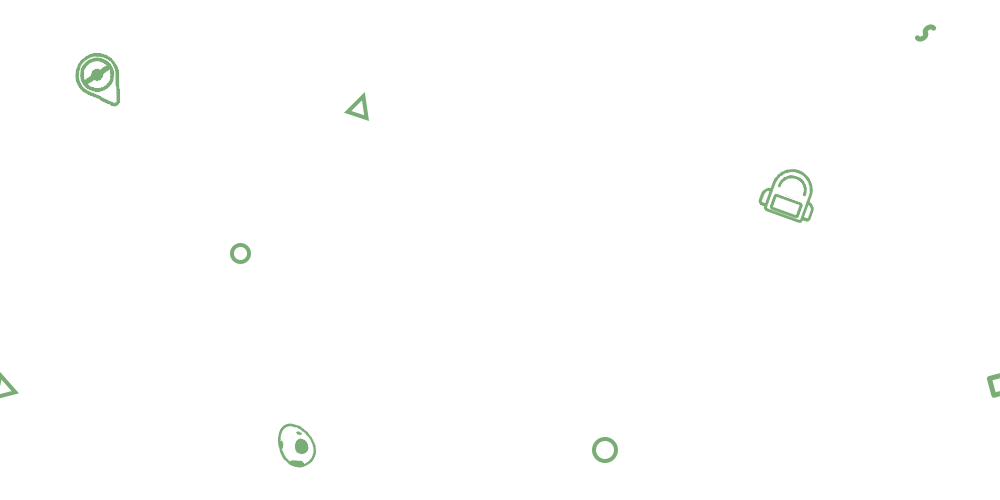
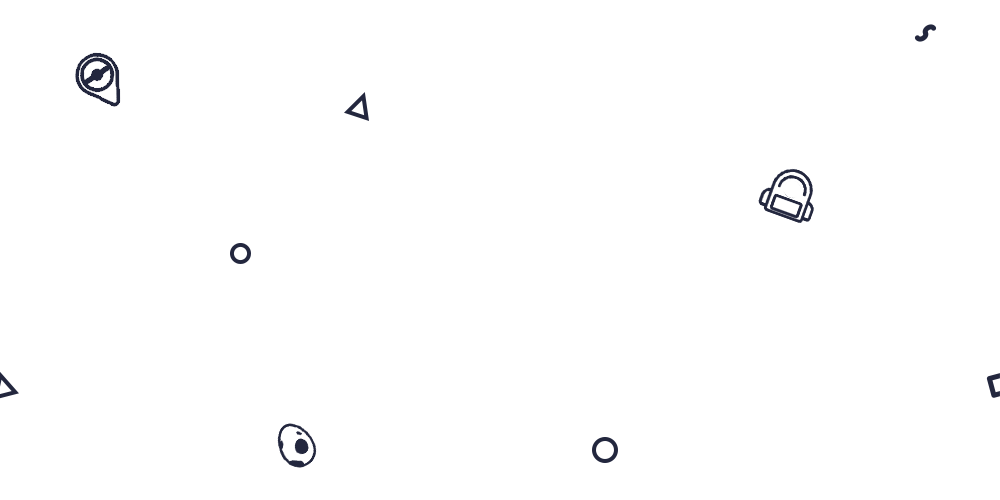
Updated colors.

diff --git a/list/styles.css b/list/styles.css
@@ -4,7 +4,7 @@
 
 a {
 	text-decoration: none;
-	color: #DEECD8;
+	color: #fff;
 }
 /* Header COPY*/
 
@@ -13,7 +13,7 @@ a {
 	top: 0;
 	left: 0;
 	right: 0; 
-	background-color: #79AD75;
+	background-color: #23273E;
 	padding: 10px 10px 10px 10px;
 	display: flex;
 	justify-content: space-between;
@@ -24,7 +24,7 @@ a {
 }
 .header-left, .header-right {
 	margin: 0px 0px 0px 0px;
-	color: #DEECD8;
+	color: #fff;
 }
 /* Body COPY */
 
@@ -97,7 +97,7 @@ button {
 	position: relative;
 	min-width: 368px;
 	min-height: 208px;
-	border: 2px solid #DEECD8;
+	border: 2px solid #fff;
 	border-radius: 25px;
 	box-sizing: border-box;
 	margin: 10px;
@@ -119,7 +119,7 @@ footer li {
 }
 footer {
 	height: 50px;
-	background: #79AD75;
+	background: #23273E;
 	bottom: 0;
 	width: 100%;
 	text-align: center;
@@ -131,7 +131,7 @@ footer {
 
 footer a {
     text-decoration: none;
-    color: #DEECD8;
+    color: #fff;
     /* Adjust link color */
     margin-right: 10px;
     /* Add spacing between links */

diff --git a/styles.css b/styles.css
@@ -34,6 +34,7 @@ body {
 .heading {
 	font-size: 5em;
 	margin-bottom: 10px;
+	color: #23273E;
 }
 h1 {
 	line-height: 1.3;
